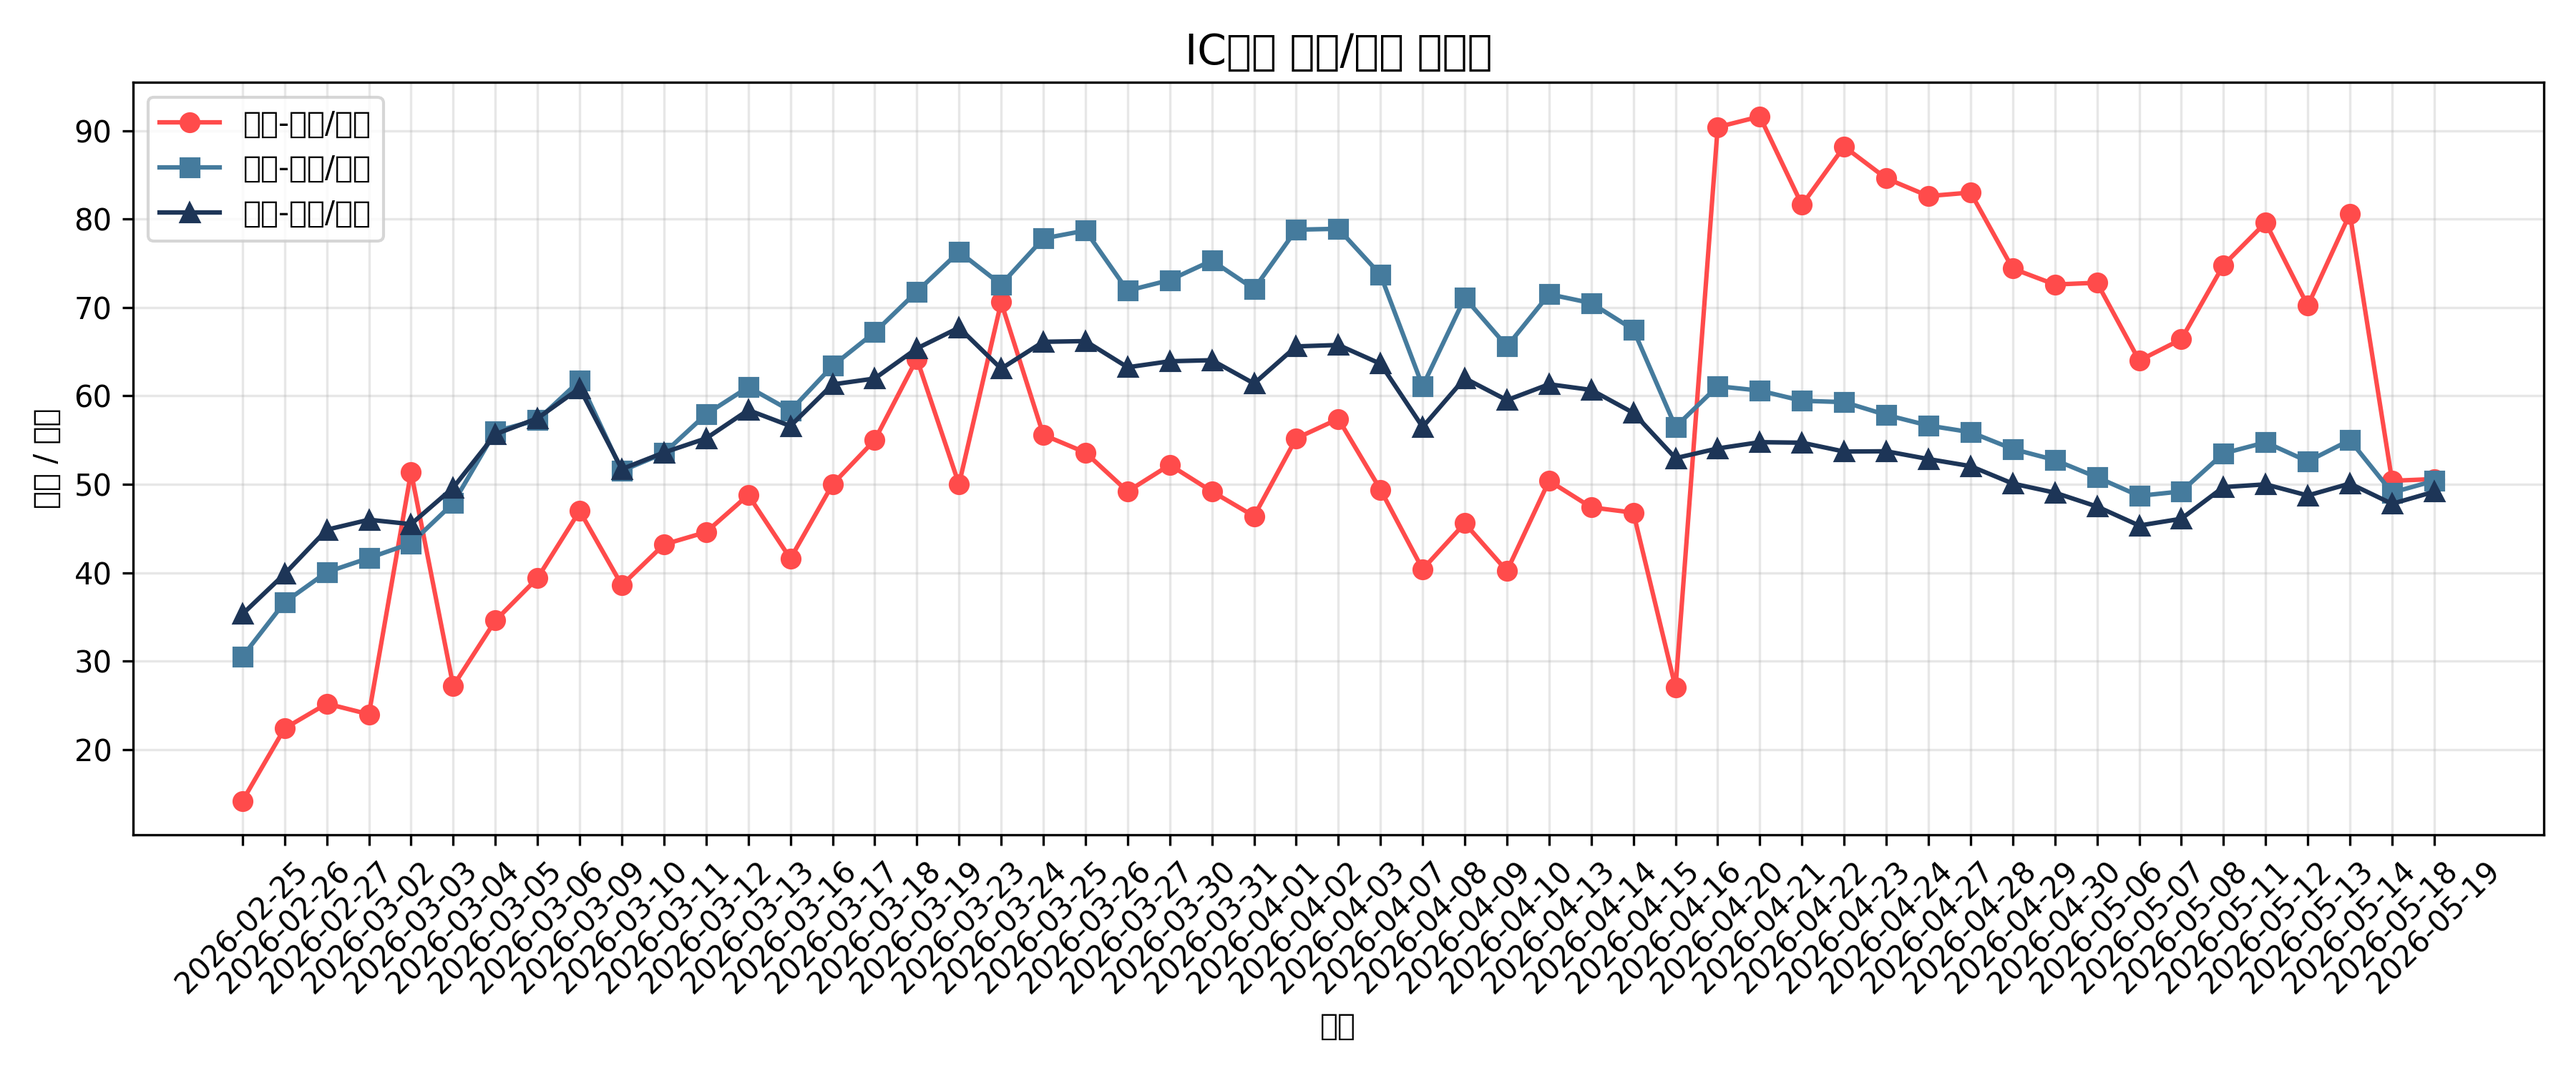
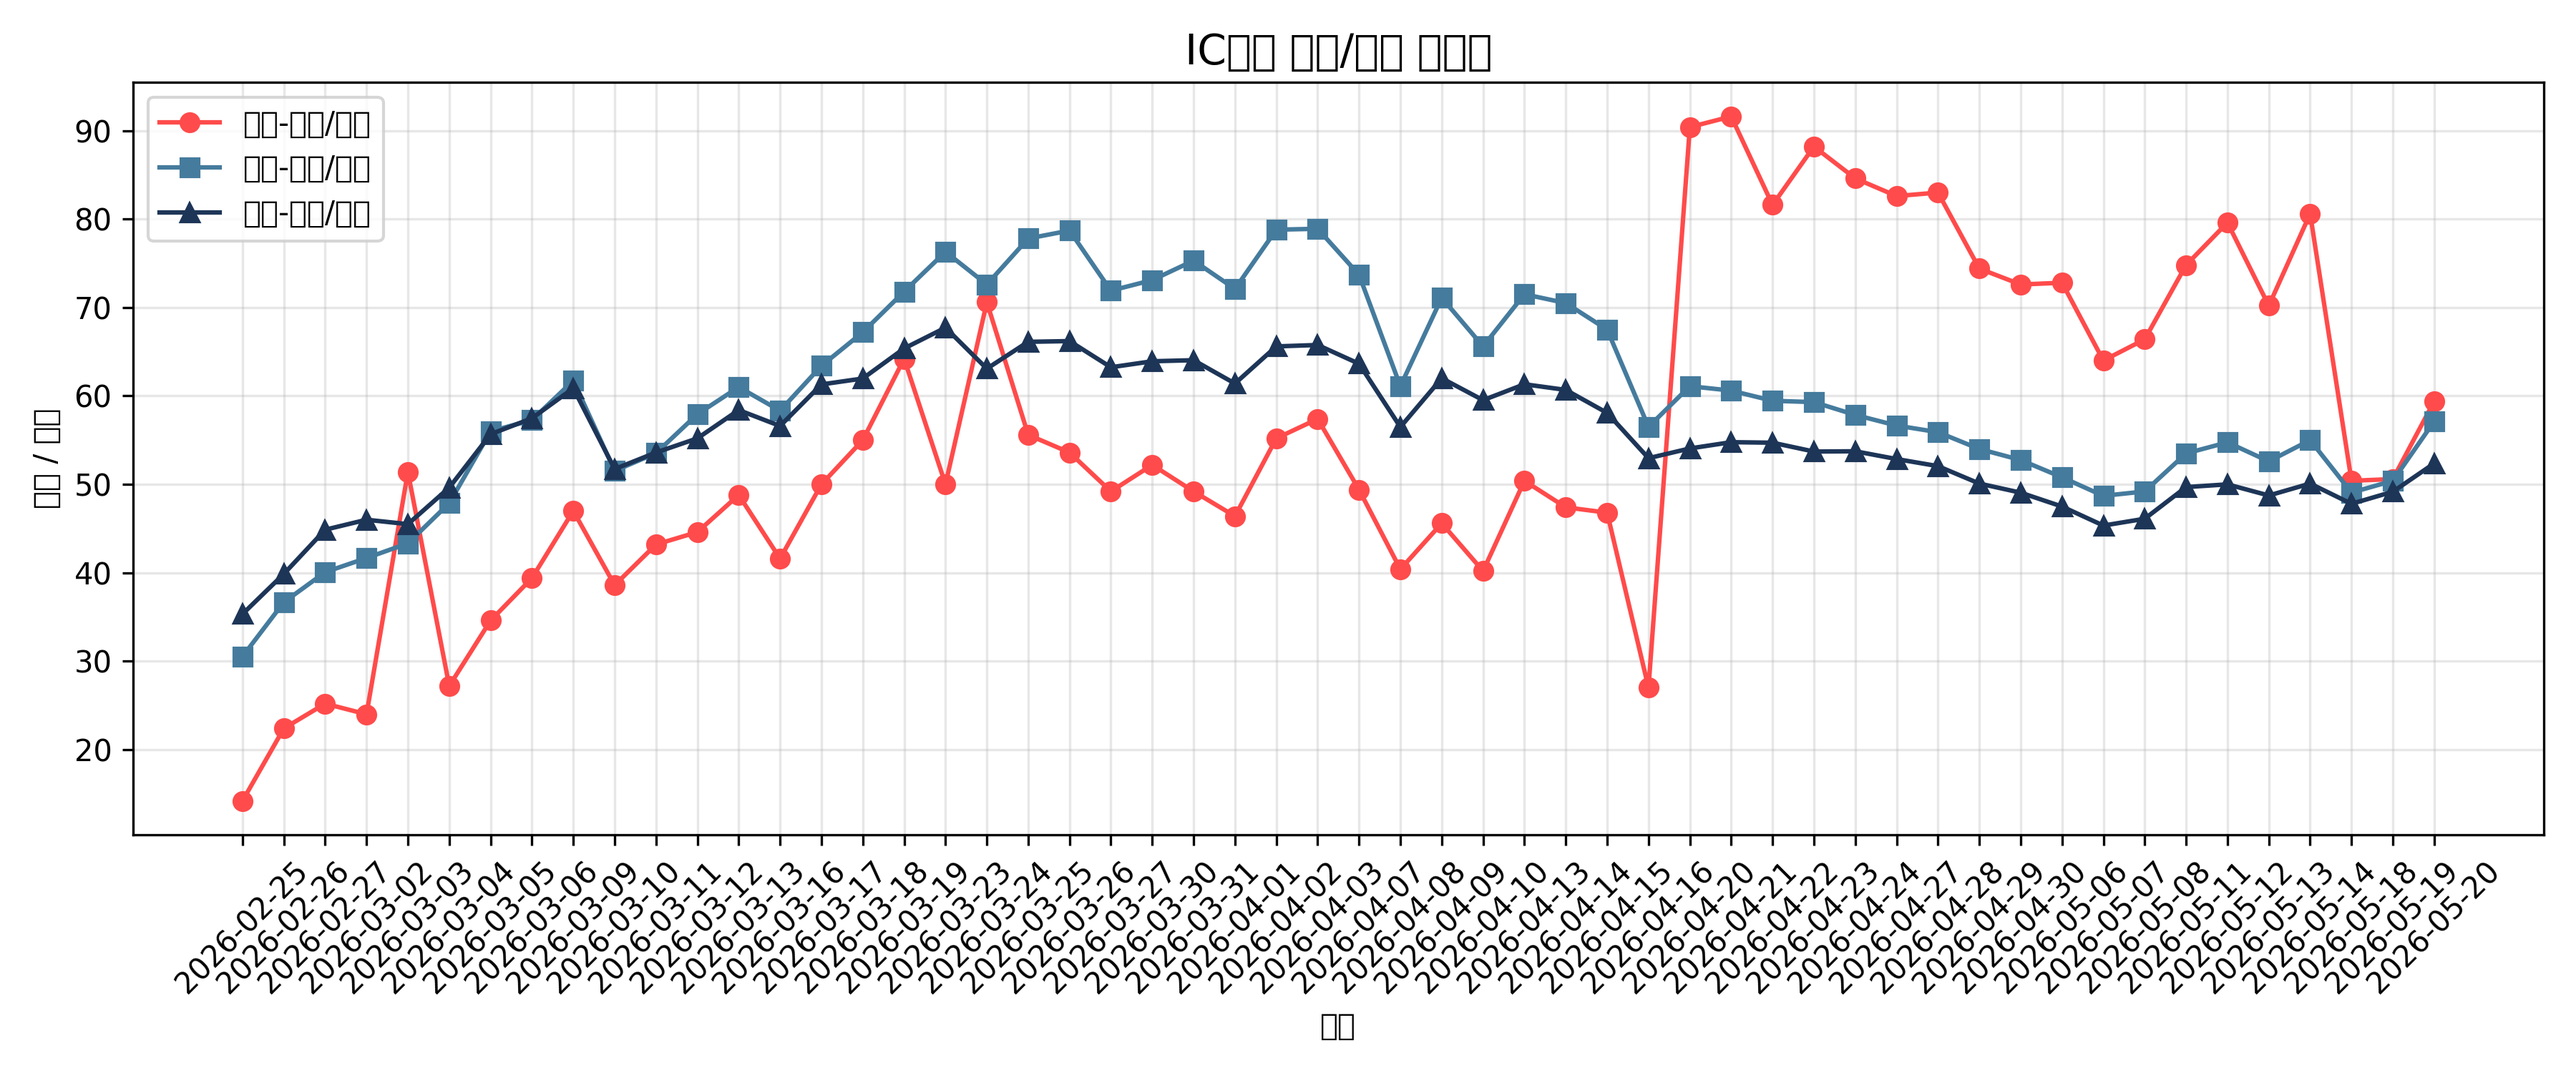
deploy: 4d1bb30b7b0bf8623cc214497fc979b4192c654b

Changed region(s): [[0.1244, 0.092, 0.9644, 0.644], [0.0933, 0.7973, 0.9644, 0.92], [0.1244, 0.644, 0.1556, 0.6747]]

diff --git a/index.html b/index.html
@@ -84,19 +84,19 @@
 <body>
     <div class="container">
         <h1>IC期货基差监控</h1>
-        <div class="last-updated">最后更新：2026-05-19 19:43:08</div>
+        <div class="last-updated">最后更新：2026-05-20 19:31:14</div>
         
         <div class="stats">
             <div class="stat-card">
-                <div class="stat-value">50.6</div>
+                <div class="stat-value">59.4</div>
                 <div class="stat-label">当月-下月/月差</div>
             </div>
             <div class="stat-card">
-                <div class="stat-value">50.4</div>
+                <div class="stat-value">57.13</div>
                 <div class="stat-label">当月-当季/月差</div>
             </div>
             <div class="stat-card">
-                <div class="stat-value">49.17</div>
+                <div class="stat-value">52.37</div>
                 <div class="stat-label">当月-下季/月差</div>
             </div>
         </div>
@@ -114,14 +114,6 @@
                 <th>当月-下月/月差</th>
                 <th>当月-当季/月差</th>
                 <th>当月-下季/月差</th>
-            </tr>
-
-            <tr>
-                <td>2026-05-08</td>
-                <td>IC2605</td>
-                <td>66.4</td>
-                <td>49.2</td>
-                <td>46.11</td>
             </tr>
 
             <tr>
@@ -170,6 +162,14 @@
                 <td>50.6</td>
                 <td>50.4</td>
                 <td>49.17</td>
+            </tr>
+
+            <tr>
+                <td>2026-05-20</td>
+                <td>IC2606</td>
+                <td>59.4</td>
+                <td>57.13</td>
+                <td>52.37</td>
             </tr>
 
         </table>
